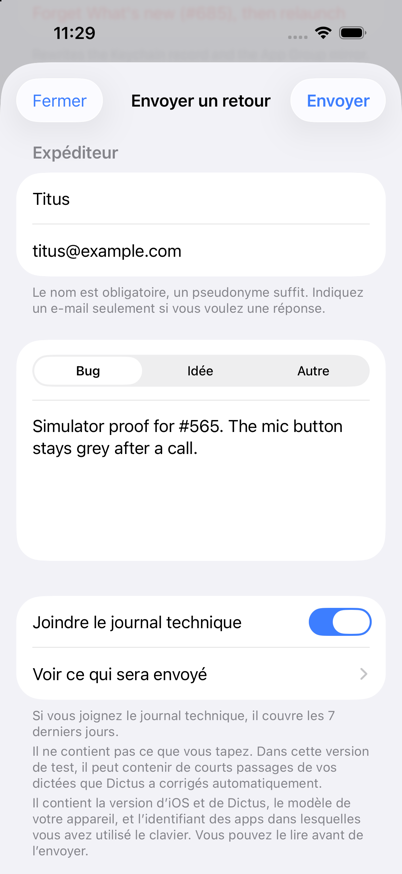
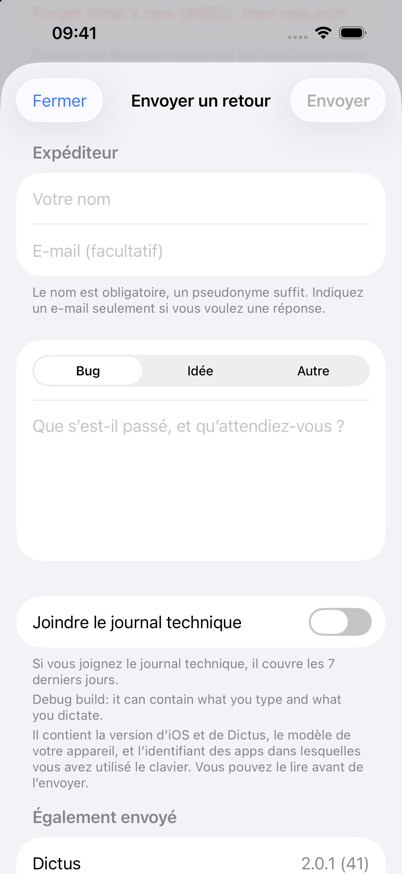
docs(#565): verify recipe for the log default, the 429 hold and the share cleanup

diff --git a/.claude/skills/verify-dictus-ios/features/diagnostics.logs.md b/.claude/skills/verify-dictus-ios/features/diagnostics.logs.md
@@ -3,7 +3,7 @@
 - **ID:** `diagnostics.logs`
 - **Tier:** Gratuit (Free)
 - **Targets:** DictusApp + DictusCore
-- **Screens:** `app.settings.debug-logs`, `app.settings.diagnostic`, `app.settings.licences`, `app.settings.feedback`, `app.settings.feedback.log`, `app.settings.feedback.failed`, `app.settings.feedback.sent` — see [screens.md](screens.md)
+- **Screens:** `app.settings.debug-logs`, `app.settings.diagnostic`, `app.settings.licences`, `app.settings.feedback`, `app.settings.feedback.log`, `app.settings.feedback.failed`, `app.settings.feedback.rate-limited`, `app.settings.feedback.sent` — see [screens.md](screens.md)
 
 ## Sub-features
 
@@ -11,7 +11,7 @@
 - `diagnostics.log-export`: « Exporter les logs » through the share sheet.
 - `diagnostics.app-group-check`: « Diagnostic »: checks the storage shared by app and keyboard (App Group).
 - `diagnostics.about`: Version, GitHub link (getdictus/dictus-ios), Licences.
-- `diagnostics.feedback`: « Envoyer un retour » (#565): name, optional email, Bug / Idée / Autre, message, « Joindre le journal technique » with « Voir ce qui sera envoyé », sent to `POST /api/feedback` on getdictus.com. On failure: one sentence, « Réessayer », « Partager à la place ».
+- `diagnostics.feedback`: « Envoyer un retour » (#565): name, optional email, Bug / Idée / Autre, message, « Joindre le journal technique » (off by default for every type; « Voir ce qui sera envoyé » appears once it is on), sent to `POST /api/feedback` on getdictus.com. On failure: one sentence, « Réessayer », « Partager à la place ».
 
 ## How to get to it (user POV)
 
@@ -44,6 +44,10 @@ A Debug build reads `-DictusFeedbackEndpoint <url>` from the launch command line
 ```
 
 Fields: `feedback.name`, `feedback.email`, `feedback.type`, `feedback.message`, `feedback.attachLog`, `feedback.seeLog`, `feedback.send`. After a failure: `feedback.failure`, `feedback.retry`, `feedback.share`. After a 200: `feedback.sent`.
+
+- `feedback.attachLog` reads `0` on a fresh form whatever the type. `feedback.seeLog` exists only once it is `1`; tap the switch itself (x ≈ 340), a tap on the row's label does not toggle it.
+- A `429` keeps `feedback.retry` and `feedback.send` disabled until `Retry-After` has elapsed (60 s without the header), then both enable themselves. A stub answering `429` with `Retry-After: 45` shows both states within a minute.
+- « Partager à la place » writes `tmp/<UUID>/dictus-logs.txt` in the app container (only when the log is attached) and deletes the folder when the share sheet or the feedback sheet closes: `find "$(xcrun simctl get_app_container <udid> com.pivi.dictus data)/tmp" -name dictus-logs.txt`.
 
 ## Gotchas
 

diff --git a/.claude/skills/verify-dictus-ios/features/screens.md b/.claude/skills/verify-dictus-ios/features/screens.md
@@ -33,9 +33,10 @@ Captures are in [`docs/agents/screens/`](../../../../docs/agents/screens/), one 
 | `app.settings.sounds` | Réglages → Sons | Réglages, scroll, tap-label Sons | feedback.sounds-haptics | [oui](../../../../docs/agents/screens/app.settings.sounds.png) |
 | `app.settings.diagnostic` | Réglages → Diagnostic | Réglages, scroll to À propos, tap-label Diagnostic | diagnostics.logs | [oui](../../../../docs/agents/screens/app.settings.diagnostic.png) |
 | `app.settings.debug-logs` | Réglages → Debug Logs | … tap-label « Debug Logs » | diagnostics.logs | [oui](../../../../docs/agents/screens/app.settings.debug-logs.png) |
-| `app.settings.feedback` | Réglages → « Envoyer un retour » sheet | … tap-id settings.sendFeedback | diagnostics.logs | [oui](../../../../docs/agents/screens/app.settings.feedback.png) |
+| `app.settings.feedback` | Réglages → « Envoyer un retour » sheet, log toggle off by default | … tap-id settings.sendFeedback | diagnostics.logs | [oui](../../../../docs/agents/screens/app.settings.feedback.png) |
 | `app.settings.feedback.log` | « Ce qui sera envoyé »: the exact log the form attaches | … tap-id feedback.seeLog | diagnostics.logs | [oui](../../../../docs/agents/screens/app.settings.feedback.log.png) |
 | `app.settings.feedback.failed` | The form after a failed send: the sentence, « Réessayer », « Partager à la place » | send to a stub answering 502 | diagnostics.logs | [oui](../../../../docs/agents/screens/app.settings.feedback.failed.png) |
+| `app.settings.feedback.rate-limited` | The form after a `429`: « Réessayer » and « Envoyer » disabled until `Retry-After` elapses | send to a stub answering 429 with Retry-After | diagnostics.logs | [oui](../../../../docs/agents/screens/app.settings.feedback.rate-limited.png) |
 | `app.settings.feedback.sent` | « Envoyé. Merci. » after a 200 | send to a stub answering 200 | diagnostics.logs | [oui](../../../../docs/agents/screens/app.settings.feedback.sent.png) |
 | `app.settings.licences` | Réglages → Licences | … tap-label Licences | diagnostics.logs | [oui](../../../../docs/agents/screens/app.settings.licences.png) |
 | `app.settings.polish-debug` | Polish debug screen | Réglages → tap « Version » five times | polish | non |
